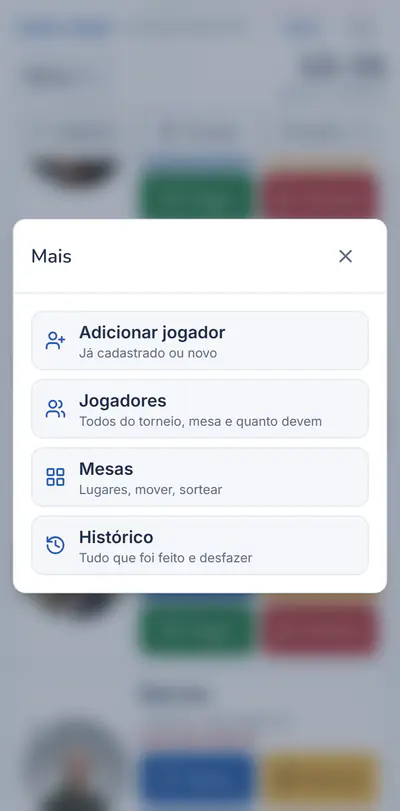
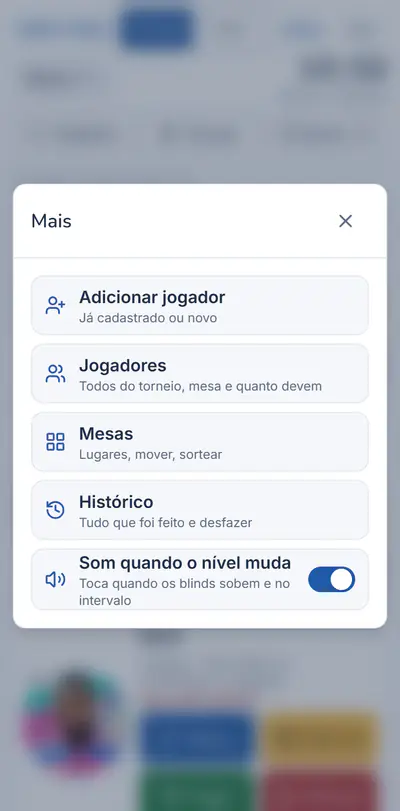
Manual: som quando o nível muda
Passo "Som quando o nível muda" no módulo do terminal (com o print do telão no
celular mostrando o "Ativar som") e no módulo do telão na TV; o menu "Mais" cita
o liga/desliga do som. Prints refeitos: terminal-mais, terminal-telao e tv-telao.

diff --git a/src/pages/manual/manual.content.ts b/src/pages/manual/manual.content.ts
@@ -439,6 +439,16 @@ export const MANUAL_MODULES = [
             imageAlt: 'Telão no celular: Terminal e Telão no topo, o nível, o relógio grande, a barra, os blinds, o próximo nível, o próximo intervalo, jogando, fichas em jogo, média e premiação',
           },
           {
+            title: 'Som quando o nível muda',
+            text: [
+              'Quando o nível sobe, o terminal, o telão no celular e o telão da TV tocam um aviso: três notas subindo quando os blinds sobem e duas notas quando começa o intervalo. No celular, ele também vibra. Pausar, retomar e voltar um nível não tocam.',
+              'O navegador só libera o som depois de um toque na tela. Enquanto isso, o telão mostra o botão Ativar som no alto: toque nele (ou em qualquer lugar da tela) e um aviso curto confirma que o som está ligado.',
+            ],
+            tip: 'Para desligar neste aparelho: no telão, toque no alto-falante do topo; no terminal, em Mais › Som quando o nível muda. Cada aparelho guarda a sua escolha.',
+            image: 'terminal-som',
+            imageAlt: 'Telão no celular com o botão Ativar som em dourado no topo, entre Terminal e Telão e o botão de tela cheia, e o relógio do nível embaixo',
+          },
+          {
             title: 'Rebuy',
             text: [
               'Toque em Rebuy no card do jogador. A confirmação mostra a foto e o nome, para conferir que é a pessoa certa, e o valor.',
@@ -513,9 +523,11 @@ export const MANUAL_MODULES = [
         steps: [
           {
             title: 'O menu Mais',
-            text: ['Em Mais, no topo, ficam Adicionar jogador, Jogadores (todos do torneio), Mesas e Histórico.'],
+            text: [
+              'Em Mais, no topo, ficam Adicionar jogador, Jogadores (todos do torneio), Mesas e Histórico, e o liga/desliga do som quando o nível muda neste celular.',
+            ],
             image: 'terminal-mais',
-            imageAlt: 'Menu Mais do terminal com Adicionar jogador, Jogadores, Mesas e Histórico',
+            imageAlt: 'Menu Mais do terminal com Adicionar jogador, Jogadores, Mesas, Histórico e Som quando o nível muda, ligado',
           },
           {
             title: 'Inscreva quem chegou',
@@ -782,7 +794,16 @@ export const MANUAL_MODULES = [
             ],
             tip: 'No Mesa, o telão mostra o relógio, os jogadores e os eliminados.',
             image: 'tv-telao',
-            imageAlt: 'Telão do torneio na TV: relógio grande, blinds 100/200, jogadores por mesa, PIX com QR e premiação',
+            imageAlt: 'Telão do torneio na TV: relógio grande, blinds, jogadores por mesa, PIX com QR, premiação e o botão Ativar som no alto',
+          },
+          {
+            title: 'Som quando o nível muda',
+            text: [
+              'A TV toca um aviso quando os blinds sobem (três notas subindo) e quando começa o intervalo (duas notas). O navegador só libera o som depois de um toque, clique ou tecla: até lá, o botão Ativar som fica no alto, ao lado do Voltar.',
+              'Clique nele, toque na tela ou aperte uma tecla (o F da tela cheia também vale): um aviso curto confirma. Depois, o alto-falante no mesmo lugar liga e desliga o som desta TV.',
+            ],
+            tip: 'Ligue o volume da TV. Se a página for recarregada, o Ativar som volta até o próximo toque ou tecla.',
+            see: { slug: 'terminal-do-dealer', label: 'O mesmo aviso no terminal e no telão do celular' },
           },
           {
             title: 'Troque de torneio',

diff --git a/src/pages/manual/manualImages.ts b/src/pages/manual/manualImages.ts
@@ -113,6 +113,8 @@ import imgTerminalPagarQr400 from '../../assets/manual/terminal-pagar-qr-400.web
 import imgTerminalPagarQr750 from '../../assets/manual/terminal-pagar-qr-750.webp'
 import imgTerminalRebuy400 from '../../assets/manual/terminal-rebuy-400.webp'
 import imgTerminalRebuy750 from '../../assets/manual/terminal-rebuy-750.webp'
+import imgTerminalSom400 from '../../assets/manual/terminal-som-400.webp'
+import imgTerminalSom750 from '../../assets/manual/terminal-som-750.webp'
 import imgTerminalTelao400 from '../../assets/manual/terminal-telao-400.webp'
 import imgTerminalTelao750 from '../../assets/manual/terminal-telao-750.webp'
 import imgTerminalTimebank400 from '../../assets/manual/terminal-timebank-400.webp'
@@ -570,6 +572,14 @@ export const MANUAL_IMAGES = {
     src: imgTerminalRebuy400,
     full: imgTerminalRebuy750,
     srcSet: `${imgTerminalRebuy400} 400w, ${imgTerminalRebuy750} 750w`,
+    width: 750,
+    height: 1520,
+    kind: 'phone',
+  },
+  'terminal-som': {
+    src: imgTerminalSom400,
+    full: imgTerminalSom750,
+    srcSet: `${imgTerminalSom400} 400w, ${imgTerminalSom750} 750w`,
     width: 750,
     height: 1520,
     kind: 'phone',
